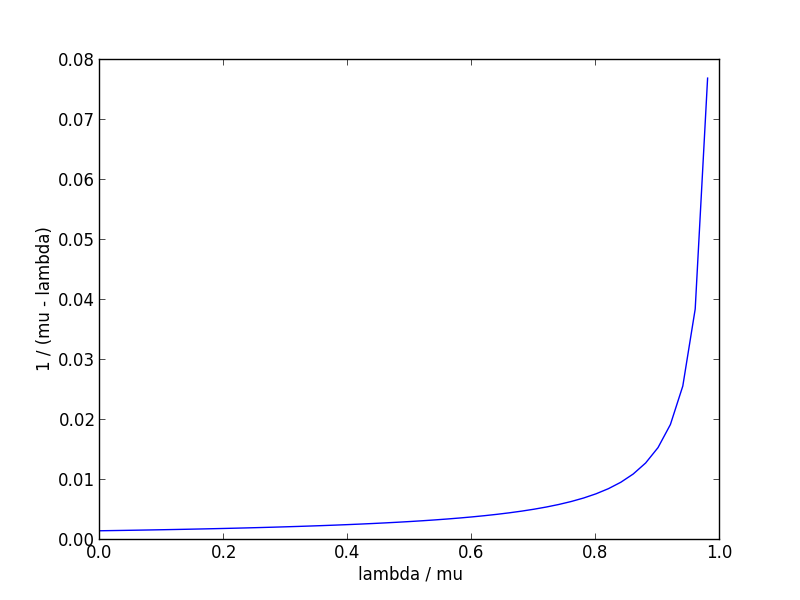
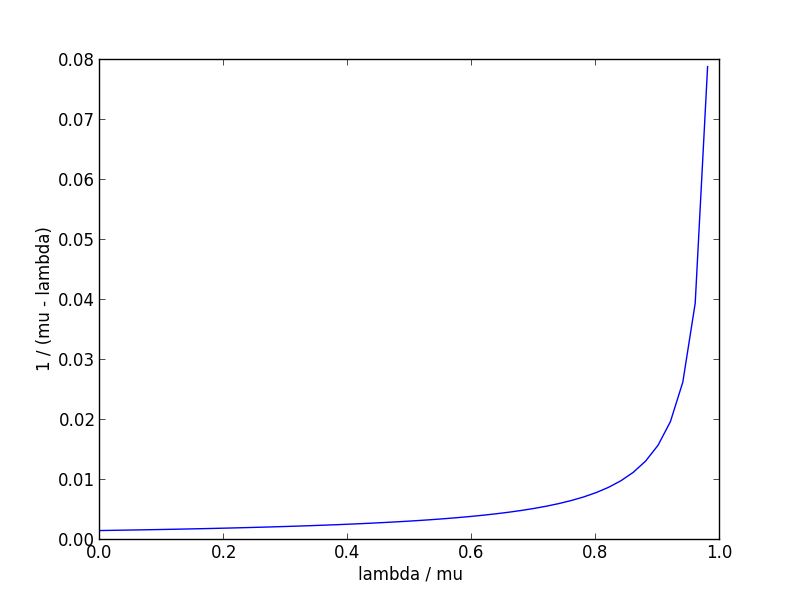
lab5 working

diff --git a/lab5/ResponseTime.py b/lab5/ResponseTime.py
@@ -39,11 +39,11 @@ class ResponseTime:
 
     		firstTime = time.time()
     		r = requests.get(self.myServer)
-    		print i, " ", r
+    		#print i, " ", r
     		secondTime = time.time()
 
     		r2 = requests.get(self.lighttpd)
-    		print "\n", i, " ", r
+    		#print "\n", i, " ", r
     		thirdTime = time.time()
 
     		myServerElapsed = (secondTime - firstTime)
@@ -135,59 +135,69 @@ class ResponseTime:
             os.system("python generator.py --port %s -l %s -d %s >> %s" % (port, int(load), duration, output))
 
 
-    def boxplot(self, xvalues, yvalues):
+    def boxplot(self, xvalues, yvalues, whichfiles):
         print "\nin boxplot()"
-        #parseFiles("myServer")
-        #parseFiles("light")
         """ Create a graph that includes a line plot and a boxplot. """
         clf()
-        # plot the line
-        #plot(self.x,self.averages)
-        # plot the boxplot
-        boxplot(yvalues,positions=xvalues,widths=0.5)
-        xlabel('X Label (units)')
-        ylabel('Y Label (units)')
-        savefig('combined.png')
+        if whichfiles == "myServer":
+            plot(self.myServerX, self.myServerY)
+        else:
+            plot(self.lighttpdX, self.lighttpdY)
+
+        for i in range(0, len(xvalues)):
+            xlist = xvalues[i]
+            ylist = yvalues[i]
+            boxplot(ylist, positions = xlist, widths = 0.05)
+
+        xlim([0,1])
+        ylim([0,.1])            
+        xlabel('lambda / mu')
+        ylabel('1 / (mu - lambda)')
+        savefig(whichfiles + '-combined.png')
 
         print "\nexit boxplot()"
 
     def parseFiles(self, whichfiles):
         xvalues = []
         yvalues = []
+        filename = None
 
         if whichfiles == "myServer":
-            for currFile in self.myServerLoadFiles:
-                print "currFile = ", currFile
-                try:
-                    f = open(currFile, 'r')
-                    splitName = currFile.split('-')
-                    getLoad = splitName[2]
-                    getLoad = getLoad.split('.')
-                    myLambda = float(getLoad[0])
-                    print "\nmyLambda = ", myLambda
+            filename = self.myServerLoadFiles
+        else:
+            filename = self.lightLoadFiles
 
-                    for line in f.readlines():
-                        split = line.split()
-                        print split
-                        if split[2] == '200':
-                            mu = float(split[5])
-                            xval = myLambda/mu
-                            print "lambda/mu = ", xval
-                            xvalues.append(xval)
-                            yval = 1/(mu - myLambda)
-                            print "yval = ", yval
-                            yvalues.append(yval)
+        for currFile in filename:
+            try:
+                f = open(currFile, 'r')
+                splitName = currFile.split('-')
+                getLoad = splitName[2]
+                getLoad = getLoad.split('.')
+                myLambda = float(getLoad[0])
+                xVal = myLambda/self.myServerMu
 
-                    self.boxplot(xvalues, yvalues)
-                except IOError as e:
-                    print "Error Opening File"
-                    print "i/O error({0}): {1}".format(e.errno, e.strerror)
+                tempX = []
+                tempX.append(xVal)
+                xvalues.append(tempX)
 
+                tempY = []
+                for line in f.readlines():
+                    split = line.split()
+                    if split[2] == '200':
+                        yVal = float(split[5])
+                        tempY.append(yVal)
+                yvalues.append(tempY)
+            except IOError as e:
+                print "Error Opening File"
+                print "i/O error({0}): {1}".format(e.errno, e.strerror)
+
+        self.boxplot(xvalues, yvalues, whichfiles)
 
 if __name__ == '__main__':
     r = ResponseTime()
-    #r.run()
-    #r.writeTimes()
-    #r.linePlot()
+    r.run()
+    r.writeTimes()
+    r.linePlot()
     #r.generateLoadTest()
     r.parseFiles("myServer")
+    r.parseFiles("lighttpd")
